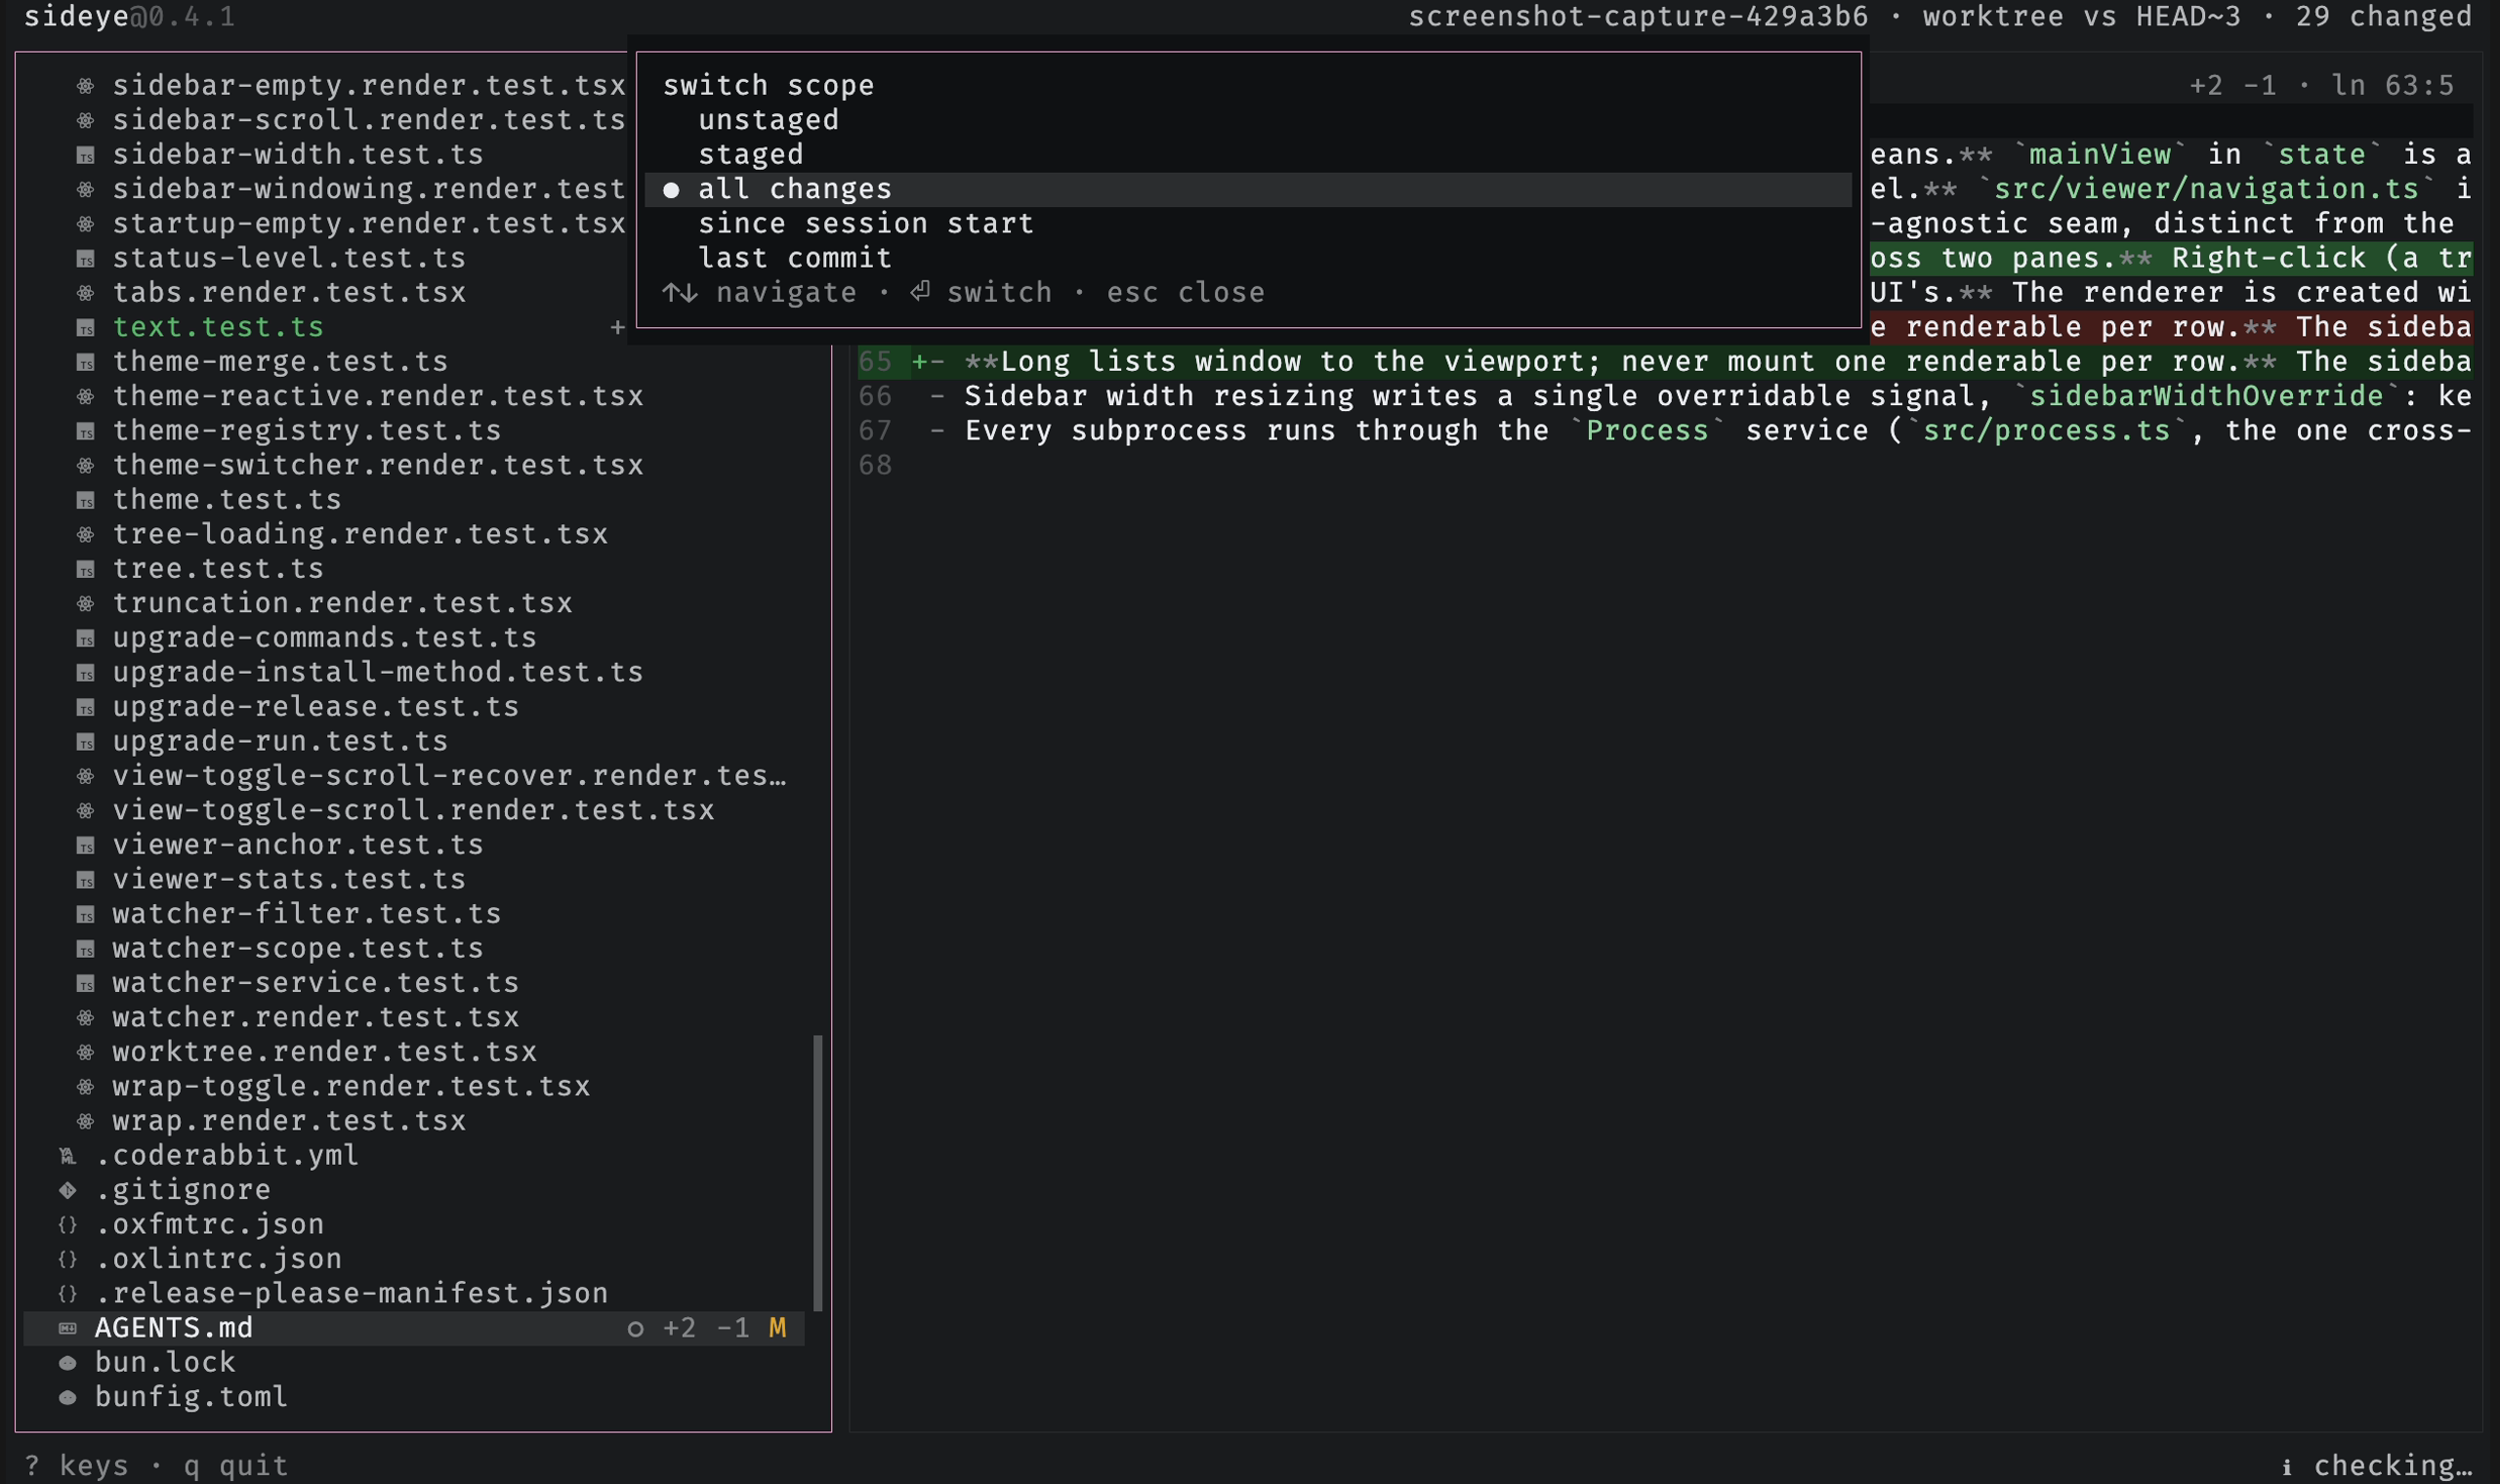
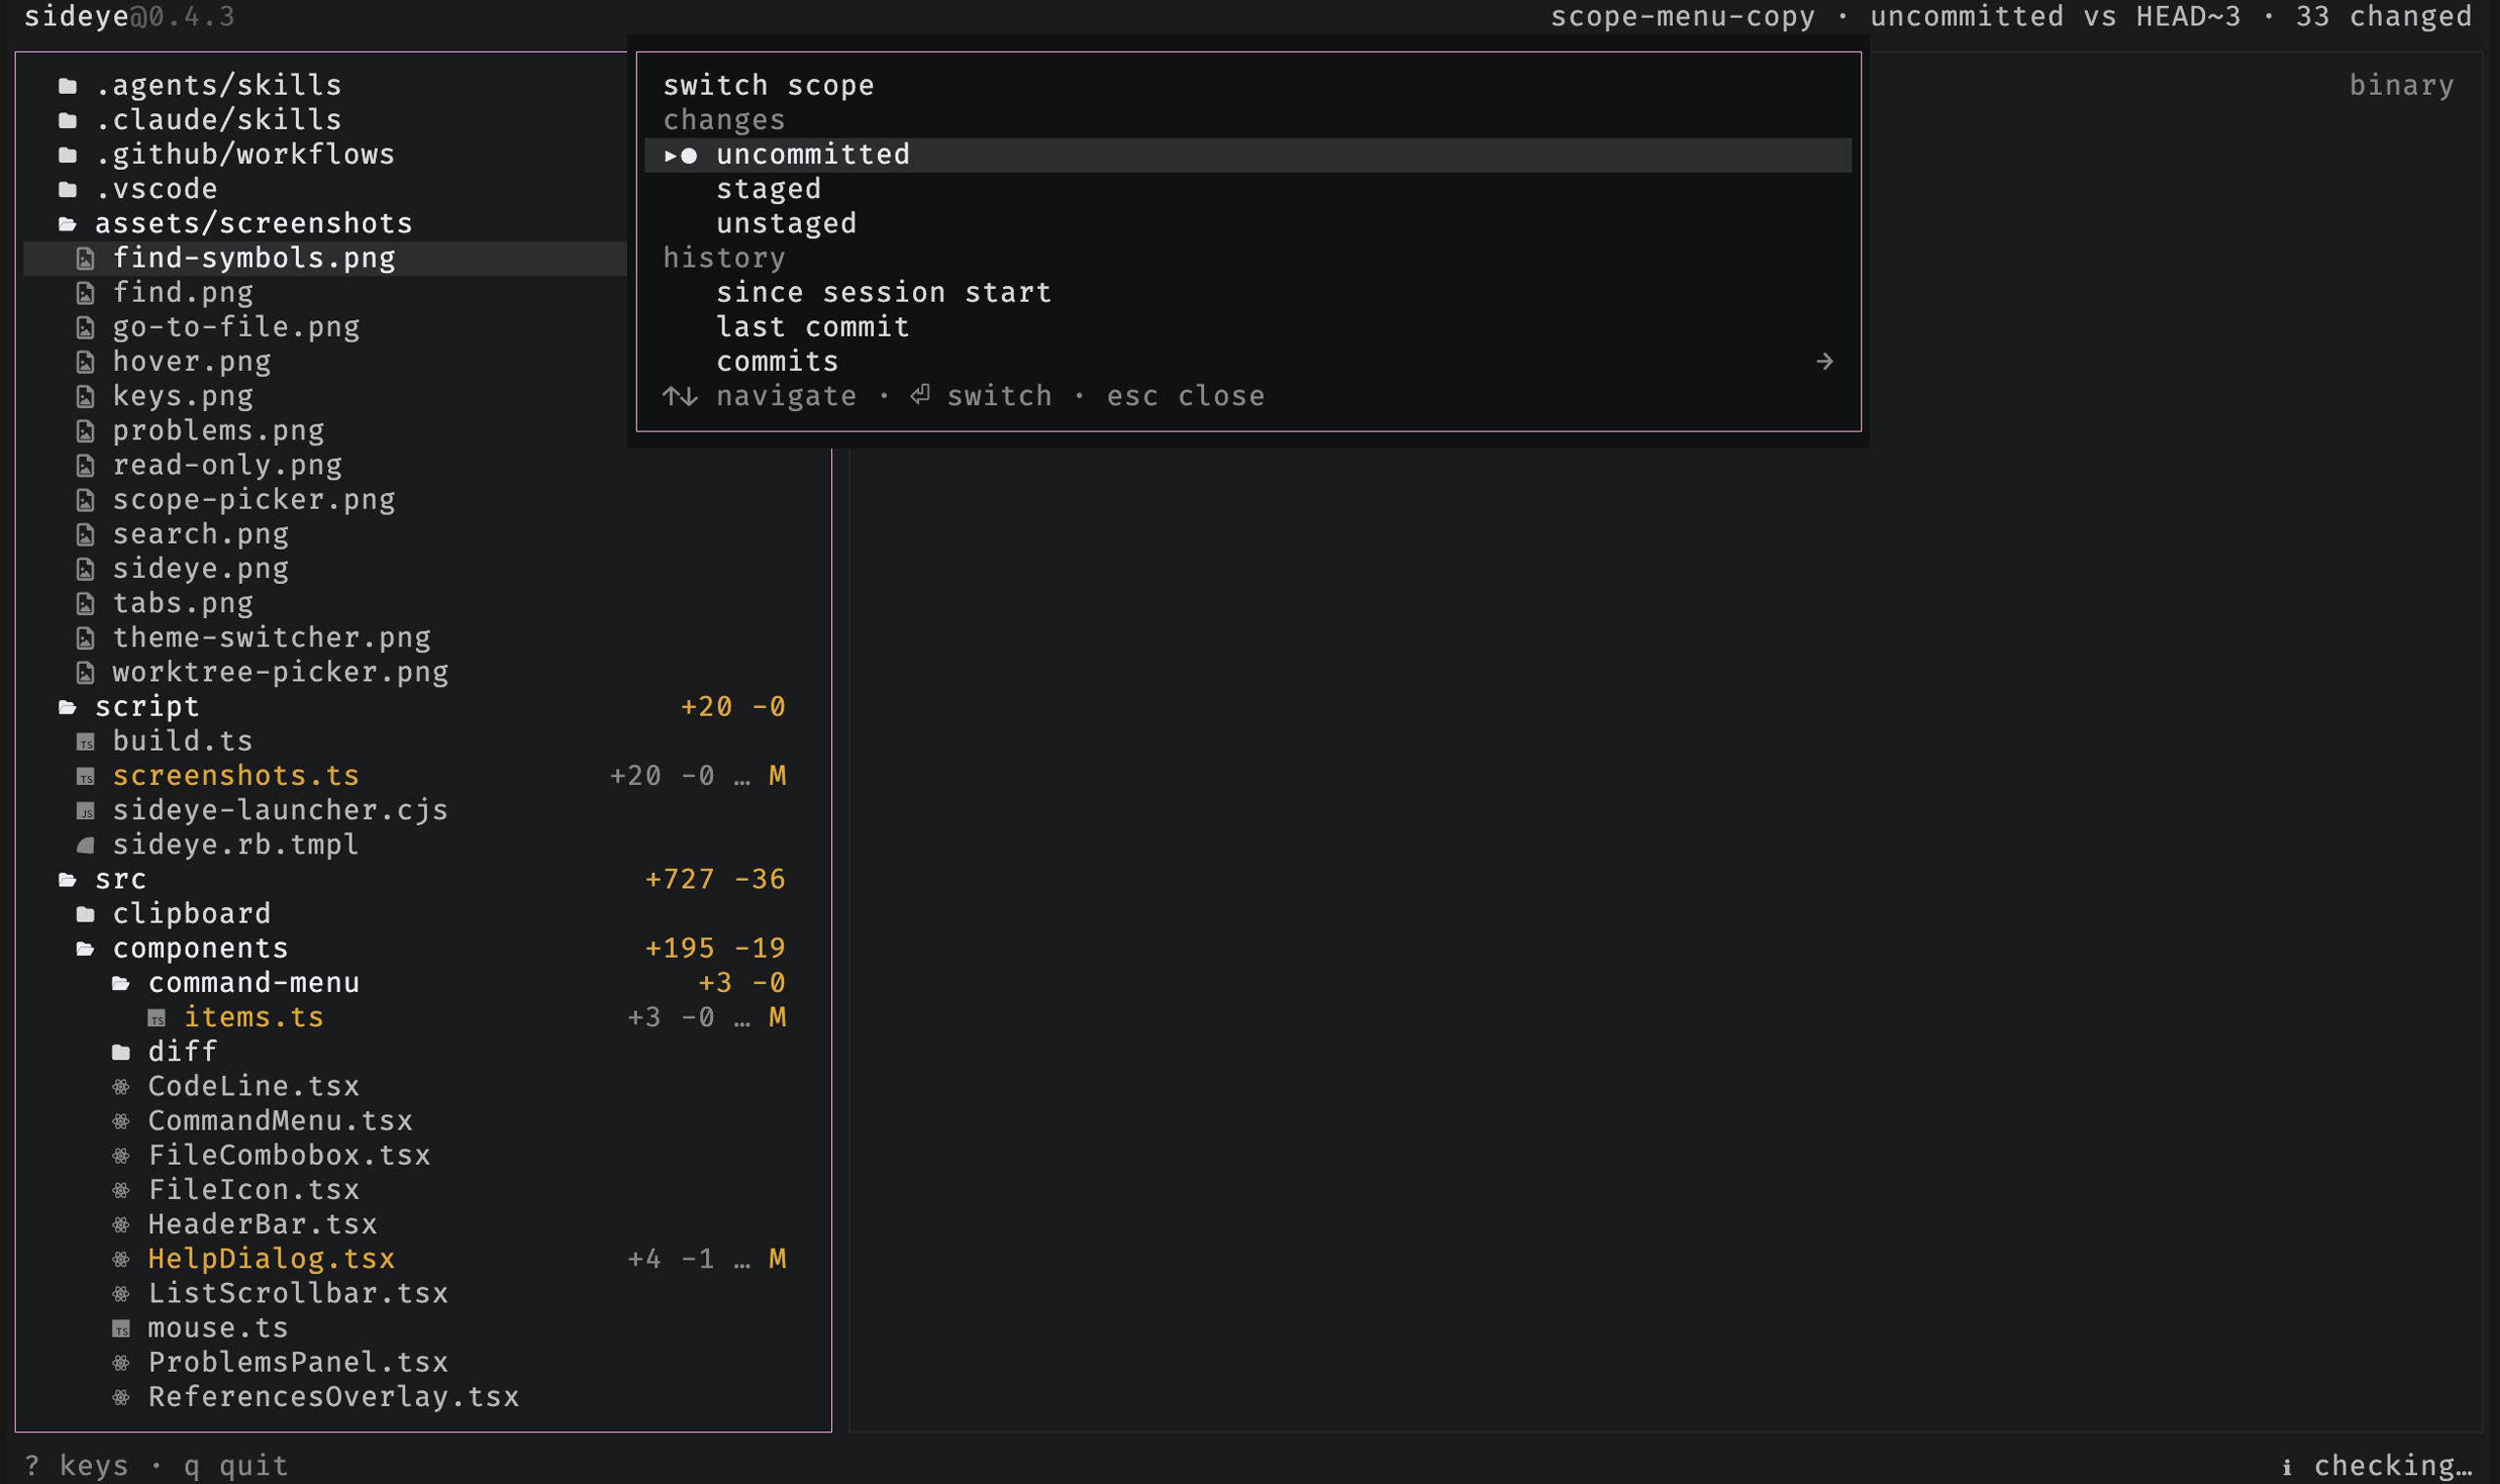
feat(scope): ✨ group the scope menu and unify its labels (#210)
BREAKING CHANGE: 💥 the default scope reads "uncommitted" (was "all
changes" in the picker and "worktree vs HEAD" in the header)

diff --git a/src/components/ScopeMenu.tsx b/src/components/ScopeMenu.tsx
@@ -37,6 +37,13 @@ export function ScopeMenu() {
       foregroundColor: theme.colors.scrollbar.thumb,
     },
   };
+  // Non-selectable section labels; the cursor (scopeMenuIndex) never lands on them,
+  // So they carry no id or handler and outdent left of the marker-prefixed rows.
+  const groupHeader = (label: string) => (
+    <box height={1} paddingLeft={1} backgroundColor={theme.colors.surface.panel}>
+      <text fg={theme.colors.text.muted}>{label}</text>
+    </box>
+  );
 
   return (
     <box
@@ -58,32 +65,38 @@ export function ScopeMenu() {
         <scrollbox
           ref={(el) => (scopeMenuRef = el)}
           width="100%"
-          height={scopeKinds.length + 1}
+          height={scopeKinds.length + 3}
           scrollY
           viewportCulling
           scrollbarOptions={scrollbarOptions}
         >
-          {/* Id-by-index is required: reordering must never change a live renderable's id */}
+          {/* Id-by-index is required: reordering must never change a live renderable's id.
+              The "changes"/"history" section labels are interleaved off the grouped
+              scopeKinds order (headers before the first row and the "session" row). */}
           <Index each={scopeKinds}>
             {(kind, index) => {
               const active = () => index === state.scopeMenuIndex();
               const current = () => kind() === state.scope().kind;
               return (
-                <box
-                  id={`scope-menu-${index}`}
-                  width="100%"
-                  paddingLeft={1}
-                  paddingRight={1}
-                  backgroundColor={rowBackground(active())}
-                  onMouseDown={() => {
-                    state.selectScope(kind());
-                    state.setScopeMenuOpen(false);
-                  }}
-                >
-                  <text
-                    fg={rowFg(active())}
-                  >{`${marker(active(), current())}${scopeMenuLabel(kind())}`}</text>
-                </box>
+                <>
+                  <Show when={index === 0}>{groupHeader("changes")}</Show>
+                  <Show when={kind() === "session"}>{groupHeader("history")}</Show>
+                  <box
+                    id={`scope-menu-${index}`}
+                    width="100%"
+                    paddingLeft={1}
+                    paddingRight={1}
+                    backgroundColor={rowBackground(active())}
+                    onMouseDown={() => {
+                      state.selectScope(kind());
+                      state.setScopeMenuOpen(false);
+                    }}
+                  >
+                    <text
+                      fg={rowFg(active())}
+                    >{`${marker(active(), current())}${scopeMenuLabel(kind())}`}</text>
+                  </box>
+                </>
               );
             }}
           </Index>

diff --git a/test/scope.render.test.tsx b/test/scope.render.test.tsx
@@ -37,13 +37,13 @@ describe("scope switching", () => {
         400,
       );
 
-      // `s` opens the picker on the active scope (all, index 2); `k` moves up to
-      // Staged (index 1); `return` selects it. Nothing is staged, so the new
+      // `s` opens the picker on the active scope (uncommitted, index 0); `j` moves
+      // Down to staged (index 1); `return` selects it. Nothing is staged, so the new
       // Changed set is empty and the recheck runs against it: the change indicator
-      // Must disappear, which a stale all-scope frame cannot satisfy.
+      // Must disappear, which a stale uncommitted-scope frame cannot satisfy.
       mockInput.pressKey("s");
-      await settleUntil("scope picker opens", (frame) => frame.includes("all changes"));
-      mockInput.pressKey("k");
+      await settleUntil("scope picker opens", (frame) => frame.includes("switch scope"));
+      mockInput.pressKey("j");
       // Let the cursor move commit before enter, as a real key cadence would.
       await settleUntil("picker cursor moved", () => true, 2);
       mockInput.pressEnter();
@@ -80,22 +80,25 @@ describe("scope switching", () => {
     try {
       mockInput.pressKey("s");
       const open = await settleUntil(
-        "picker lists all scopes",
+        "picker lists all scopes under their group headers",
         (frame) =>
+          frame.includes("uncommitted") &&
           frame.includes("unstaged") &&
           // Word-bounded so the "unstaged" row can't satisfy the staged check.
           /\bstaged\b/.test(frame) &&
-          frame.includes("all changes") &&
           frame.includes("since session start") &&
-          frame.includes("last commit"),
+          frame.includes("last commit") &&
+          // The two group headers.
+          frame.includes("changes") &&
+          frame.includes("history"),
       );
-      // The active scope (all) carries the ● marker.
-      expect(open).toContain("● all changes");
+      // The active scope (uncommitted) carries the ● marker.
+      expect(open).toContain("● uncommitted");
 
       mockInput.pressEscape();
       const closed = await settleUntil(
         "escape closes the picker",
-        (frame) => !frame.includes("● all changes"),
+        (frame) => !frame.includes("● uncommitted"),
       );
       expect(closed).not.toContain("since session start");
     } finally {
@@ -120,18 +123,20 @@ describe("scope switching", () => {
     const settleUntil = makeSettleUntil({ captureCharFrame, renderOnce });
 
     try {
-      await settleUntil("all scope is active", (frame) => frame.includes("worktree vs HEAD"));
+      await settleUntil("all scope is active", (frame) => frame.includes("uncommitted vs HEAD"));
 
-      // From all (index 2), `j` moves down to session (index 3); `return` selects.
+      // From uncommitted (index 0), `j` three times reaches session (index 3); `return` selects.
       mockInput.pressKey("s");
       await settleUntil("scope picker opens", (frame) => frame.includes("since session start"));
+      mockInput.pressKey("j");
+      mockInput.pressKey("j");
       mockInput.pressKey("j");
       // Let the cursor move commit before enter, as a real key cadence would.
       await settleUntil("picker cursor moved", () => true, 2);
       mockInput.pressEnter();
       const after = await settleUntil(
         "header shows the session scope",
-        (frame) => frame.includes("since session start") && !frame.includes("worktree vs HEAD"),
+        (frame) => frame.includes("since session start") && !frame.includes("uncommitted vs HEAD"),
       );
       // Session base defaults to HEAD here, so the unstaged change is still in view.
       expect(after).toContain("since session start");
@@ -162,11 +167,13 @@ describe("scope switching", () => {
 
     try {
       // The working tree is clean, so all shows nothing changed.
-      await settleUntil("all scope is active", (frame) => frame.includes("worktree vs HEAD"));
+      await settleUntil("all scope is active", (frame) => frame.includes("uncommitted vs HEAD"));
 
-      // From all (index 2), `j` twice reaches last-commit (index 4); `return` selects.
+      // From uncommitted (index 0), `j` four times reaches last-commit (index 4); `return` selects.
       mockInput.pressKey("s");
       await settleUntil("scope picker opens", (frame) => frame.includes("last commit"));
+      mockInput.pressKey("j");
+      mockInput.pressKey("j");
       mockInput.pressKey("j");
       mockInput.pressKey("j");
       await settleUntil("picker cursor moved", () => true, 2);

diff --git a/src/cli.ts b/src/cli.ts
@@ -2,13 +2,15 @@ import util from "node:util";
 
 export type ScopeKind = "unstaged" | "staged" | "all" | "session" | "last-commit" | "commit";
 
-// Picker order, also the single source of truth for the scope list. `commit` is
-// Absent: it is entered through the picker's commit drill-down, never applied as a
+// Picker order, also the single source of truth for the scope list. Grouped for the
+// Menu: the "changes" scopes (all/staged/unstaged) then the "history" scopes
+// (session/last-commit); the menu draws its section headers off this split. `commit`
+// Is absent: it is entered through the picker's commit drill-down, never applied as a
 // Top-level row (so `indexOf` a `commit` scope is a benign -1).
 export const scopeKinds: readonly ScopeKind[] = [
-  "unstaged",
-  "staged",
   "all",
+  "staged",
+  "unstaged",
   "session",
   "last-commit",
 ];
@@ -126,7 +128,7 @@ export function scopeLabel(scope: DiffScope) {
     return `commit ${scope.headRef?.slice(0, 7) ?? ""}`;
   }
 
-  return `worktree vs ${scope.ref}`;
+  return `uncommitted vs ${scope.ref}`;
 }
 
 // Ref-agnostic row labels for the scope picker (the active scope's full,
@@ -137,7 +139,7 @@ export function scopeMenuLabel(kind: ScopeKind) {
   }
 
   if (kind === "all") {
-    return "all changes";
+    return "uncommitted";
   }
 
   if (kind === "session") {

diff --git a/test/cli.test.ts b/test/cli.test.ts
@@ -3,7 +3,7 @@ import { describe, expect, test } from "bun:test";
 import { helpText, parseArgs, parseCommand, scopeKinds, scopeLabel, scopeMenuLabel } from "@/cli";
 
 describe("parseArgs", () => {
-  test("defaults to all changes vs HEAD", () => {
+  test("defaults to uncommitted vs HEAD", () => {
     expect(parseArgs([]).scope).toEqual({ kind: "all", ref: "HEAD" });
   });
 
@@ -135,13 +135,13 @@ describe("parseCommand", () => {
 
 describe("scopeKinds", () => {
   test("lists the scopes in picker order", () => {
-    expect(scopeKinds).toEqual(["unstaged", "staged", "all", "session", "last-commit"]);
+    expect(scopeKinds).toEqual(["all", "staged", "unstaged", "session", "last-commit"]);
   });
 });
 
 describe("scopeLabel", () => {
   test("labels each scope", () => {
-    expect(scopeLabel({ kind: "all", ref: "HEAD" })).toBe("worktree vs HEAD");
+    expect(scopeLabel({ kind: "all", ref: "HEAD" })).toBe("uncommitted vs HEAD");
     expect(scopeLabel({ kind: "staged", ref: "main" })).toBe("staged vs main");
     expect(scopeLabel({ kind: "unstaged", ref: "HEAD" })).toBe("unstaged");
     expect(scopeLabel({ kind: "session", ref: "abc123" })).toBe("since session start");
@@ -153,7 +153,7 @@ describe("scopeMenuLabel", () => {
   test("gives a ref-agnostic label per kind", () => {
     expect(scopeMenuLabel("unstaged")).toBe("unstaged");
     expect(scopeMenuLabel("staged")).toBe("staged");
-    expect(scopeMenuLabel("all")).toBe("all changes");
+    expect(scopeMenuLabel("all")).toBe("uncommitted");
     expect(scopeMenuLabel("session")).toBe("since session start");
     expect(scopeMenuLabel("last-commit")).toBe("last commit");
   });

diff --git a/test/commit-stepper.render.test.tsx b/test/commit-stepper.render.test.tsx
@@ -40,9 +40,11 @@ describe("commit drill-down", () => {
     const settleUntil = makeSettleUntil({ captureCharFrame, renderOnce });
 
     try {
-      // From `all` (index 2) step down to the commits drill-down row (index 5), then enter.
+      // From `uncommitted` (index 0) step down to the commits drill-down row (index 5), then enter.
       mockInput.pressKey("s");
       await settleUntil("scope picker opens", (frame) => frame.includes("switch scope"));
+      mockInput.pressKey("j");
+      mockInput.pressKey("j");
       mockInput.pressKey("j");
       mockInput.pressKey("j");
       mockInput.pressKey("j");

diff --git a/test/worktree.render.test.tsx b/test/worktree.render.test.tsx
@@ -56,10 +56,10 @@ describe("worktree picker", () => {
       mockInput.pressEnter();
       const switched = await settleUntil(
         "linked worktree loaded",
-        (frame) => frame.includes("side-only.ts") && frame.includes(".wt · worktree vs HEAD"),
+        (frame) => frame.includes("side-only.ts") && frame.includes(".wt · uncommitted vs HEAD"),
       );
       expect(switched).toContain("side-only.ts");
-      expect(switched).toContain(".wt · worktree vs HEAD");
+      expect(switched).toContain(".wt · uncommitted vs HEAD");
     } finally {
       renderer.destroy();
       rmSync(repoRoot, { force: true, recursive: true });

diff --git a/src/components/SearchPane.tsx b/src/components/SearchPane.tsx
@@ -43,7 +43,7 @@ export function SearchPane() {
   // Rows (inputs, status, footer) keep `innerWidth`.
   const resultsWidth = () => Math.max(1, innerWidth() - 1);
   // The cell names the *effective* universe: widened -> repo; otherwise the
-  // Active diff scope, so a staged/session lens is never misread as all changes.
+  // Active diff scope, so a staged/session lens is never misread as uncommitted.
   const scopeLabel = () => {
     if (state.searchScope() === "repo") {
       return "repo";

diff --git a/test/app.render.test.tsx b/test/app.render.test.tsx
@@ -22,7 +22,7 @@ describe("App rendering", () => {
     const frame = await settleUntil("app chrome", (current) => current.includes("sideye"));
 
     expect(frame).toContain("sideye");
-    expect(frame).toContain("worktree vs HEAD");
+    expect(frame).toContain("uncommitted vs HEAD");
     expect(frame).toContain("src");
     expect(frame).toContain("q quit");
 

diff --git a/README.md b/README.md
@@ -79,7 +79,7 @@ The check is non-blocking and never interrupts the session.
 ## Usage
 
 ```sh
-sideye            # whole repo, worktree vs HEAD
+sideye            # whole repo, uncommitted vs HEAD
 sideye main       # compare against another ref
 sideye --staged   # start in the staged scope
 sideye --unstaged # start in the unstaged scope
@@ -119,11 +119,12 @@ remembered position, and a tab's label is tinted by its diff status.
 
 ### Switch scope
 
-Press `s` to pick what the diff compares: all changes, staged, unstaged,
-everything since sideye launched, or just the last commit. The picker also drills
-into recent commits (`commits →`), so you can view any of them as its own diff.
+Press `s` to pick what the diff compares. The scopes are grouped into changes
+(uncommitted, staged, or unstaged) and history (everything since sideye launched,
+or just the last commit). The picker also drills into recent commits (`commits →`),
+so you can view any of them as its own diff.
 
-![scope picker listing the five diff scopes with the active one marked](assets/screenshots/scope-picker.png)
+![scope picker grouping the diff scopes under changes and history, with the active one marked](assets/screenshots/scope-picker.png)
 
 ### Switch worktrees
 